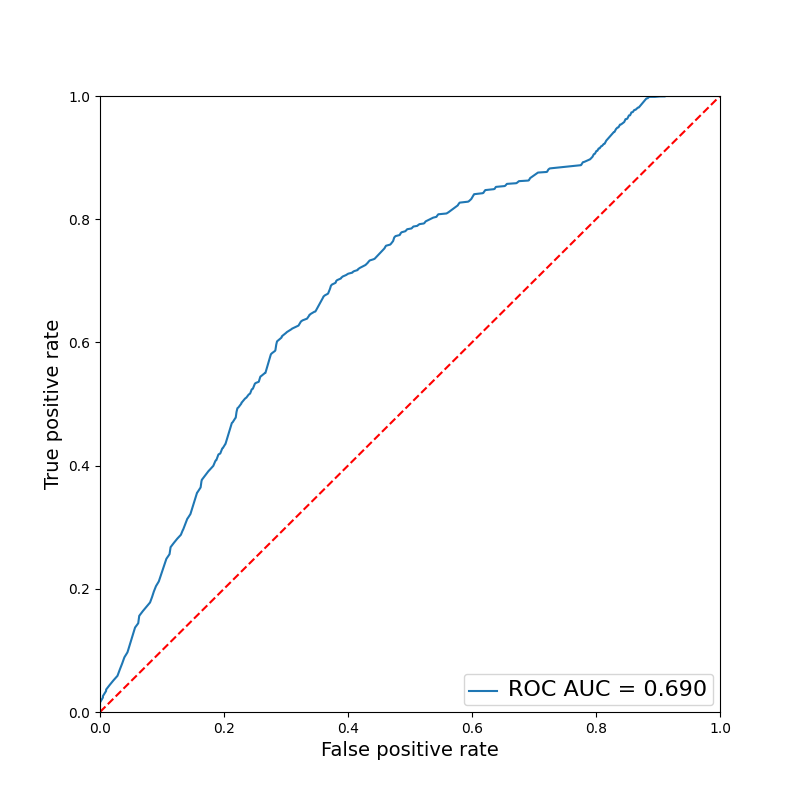
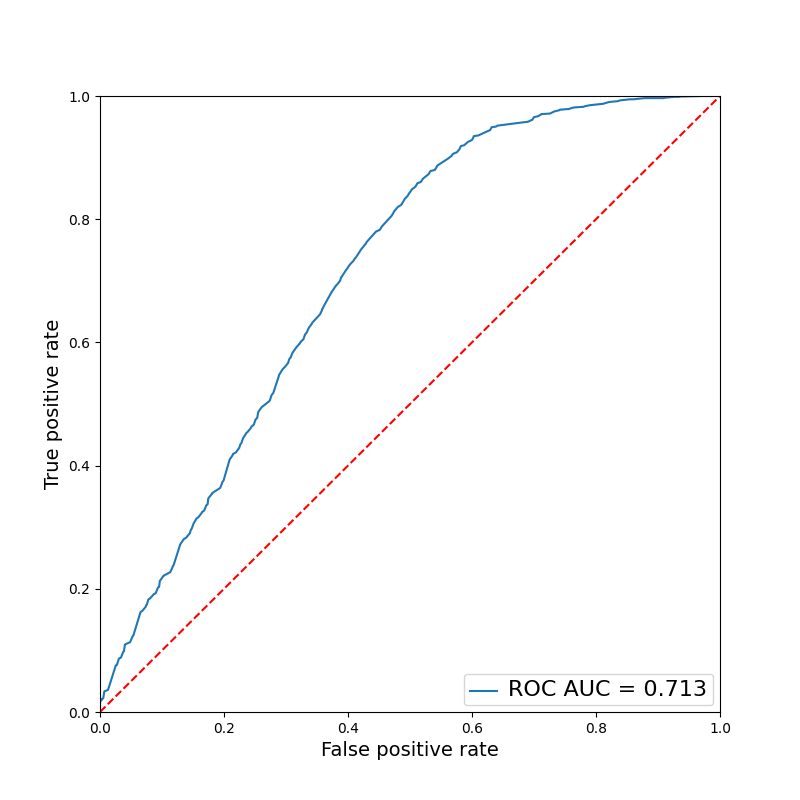
neural net ready for playing

diff --git a/Simulation.py b/Simulation.py
@@ -1,4 +1,4 @@
-import numpy as np # for advanced ds (arrays, matrices, ...)
+import numpy._globals as np # for advanced ds (arrays, matrices, ...)
 import pandas as pd # data management tools 
 import matplotlib.pyplot as plt # mathematical tool
 import seaborn as sbn # data visualisation
@@ -42,22 +42,22 @@ class Simulation:
                 # the dealers hand
                 self.dealer_hand = []
                 # each list is a player´s hand
-                self.players_hands = [[] for player in range(self.players)]
+                self.player_hands = [[] for player in range(self.players)]
                 # tracking down the players hands value
                 self.live_total = []
                 # deal the first card to player and dealer
-                for player, _ in enumerate(self.players_hands): 
-                    self.players_hands[player].append(self.cards.pop(0)) # first in last out
+                for player, _ in enumerate(self.player_hands): 
+                    self.player_hands[player].append(self.cards.pop(0)) # first in last out
                 
                 self.dealer_hand.append(self.cards.pop(0))
                 
                 # deal the second card to player and dealer
-                for player, _ in enumerate(self.players_hands): 
-                    self.players_hands[player].append(self.cards.pop(0))
+                for player, _ in enumerate(self.player_hands): 
+                    self.player_hands[player].append(self.cards.pop(0))
                 
                 self.dealer_hand.append(self.cards.pop(0))
                 # track down the players hand value
-                self.live_total.append(self.game.total_up(self.players_hands[player]))
+                self.live_total.append(self.game.total_up(self.player_hands[player]))
                 self.action = 0 # for tracking the player´s decision (1 == hit)
 
                 # dealer checks for 21
@@ -65,7 +65,7 @@ class Simulation:
                     
                     for player in range(self.players):
                         # if the player does not have a blackjack he loses
-                        if set(self.players_hands[player]) != self.blackjack: 
+                        if set(self.player_hands[player]) != self.blackjack: 
                             curr_player_results[0, player] = -1 # the corresponding players 0 is replaced by -1
                         else: # tie
                             curr_player_results[0, player] = 0 # tie
@@ -73,35 +73,35 @@ class Simulation:
                     for player in range(self.players): # for each player
                         
                         # players check for 21
-                        if set(self.players_hands[player]) == self.blackjack:
+                        if set(self.player_hands[player]) == self.blackjack:
                             curr_player_results[0, player] = 1 # win
                         
                         else:
                             # simulating both types 
                             if (self.type == "naive"): # naive simulation
-                                while ((self.game.total_up(self.players_hands[player]) <= self.limit) 
-                                    and (self.game.total_up(self.players_hands[player]) != 21)):
-                                    self.players_hands[player].append(self.cards.pop(0))
+                                while ((self.game.total_up(self.player_hands[player]) <= self.limit) 
+                                    and (self.game.total_up(self.player_hands[player]) != 21)):
+                                    self.player_hands[player].append(self.cards.pop(0))
                                     self.action = 1 # hit
                                     # check for bust again
-                                    if self.game.total_up(self.players_hands[player]) > 21:
+                                    if self.game.total_up(self.player_hands[player]) > 21:
                                         curr_player_results[0,player] = -1 # loss
                                         break # game over for this player
                             
                             elif (self.type == "random"): # random simulation
                                 while ((random.random() >= 0.5) and # 'coin flip' method  
-                                    (self.game.total_up(self.players_hands[player]) != 21)):
-                                    self.players_hands[player].append(self.cards.pop(0))
+                                    (self.game.total_up(self.player_hands[player]) != 21)):
+                                    self.player_hands[player].append(self.cards.pop(0))
                                     self.action = 1 # hit
                                     # check for bust again
-                                    if self.game.total_up(self.players_hands[player]) > 21:
+                                    if self.game.total_up(self.player_hands[player]) > 21:
                                         curr_player_results[0,player] = -1 # loss
                                         break # game over for this player
                             
                             # at this point another type of simulation has been ran as the nn need to exploit previous results
                             else: # using the neural network to play the game
                                 # look if the player has an ace
-                                if ("A" in self.players_hands[player][0:2]):
+                                if ("A" in self.player_hands[player][0:2]):
                                     self.ace = 1
                                 else:
                                     self.ace = 0
@@ -110,15 +110,15 @@ class Simulation:
                                     self.dealer_face_card = 11
                                 else:
                                     self.dealer_face_card = self.dealer_hand[0]
-
-                                while ((self.model.prediction(self.df_model, self.game.total_up(self.players_hands[player]), 
-                                        self.ace, self.dealer_face_card)) == 1 and (self.game.total_up(self.player_hands[player]) != 21)):              
+                                
+                                while ((self.model.prediction(self.game.total_up(self.player_hands[player]), self.ace, 
+                                self.dealer_face_card) == 1) and (self.game.total_up(self.player_hands[player]) != 21)):              
                                     # the nn decides to hit
                                     self.player_hands[player].append(self.cards.pop(0))
                                     self.action = 1
-                                    self.live_total.append(self.game.total_up(self.players_hands[player])) # adding live value
+                                    self.live_total.append(self.game.total_up(self.player_hands[player])) # adding live value
                                     # check for bust
-                                    if self.game.total_up(self.players_hands[player]) > 21:
+                                    if self.game.total_up(self.player_hands[player]) > 21:
                                         curr_player_results[0,player] = -1 # loss
                                         break # game over for this player
                 
@@ -135,24 +135,25 @@ class Simulation:
                 else: # nobody busted
                     for player in range(self.players): # for each player 
                         # we compare the values
-                        if (self.game.total_up(self.players_hands[player]) > self.game.total_up(self.dealer_hand)):
+                        if (self.game.total_up(self.player_hands[player]) > self.game.total_up(self.dealer_hand)):
                             # if the player hasn´t already busted
-                            if self.game.total_up(self.players_hands[player]) <= 21: 
+                            if self.game.total_up(self.player_hands[player]) <= 21: 
                                 curr_player_results[0, player] = 1 # win
                         
-                        elif self.game.total_up(self.players_hands[player]) == self.game.total_up(self.dealer_hand):
+                        elif self.game.total_up(self.player_hands[player]) == self.game.total_up(self.dealer_hand):
                             curr_player_results[0, player] = 0 # tie
                         else: 
                             curr_player_results[0, player] = -1 # loss
                 
                 # track results for each game
                 self.dealer_card_result.append(self.dealer_hand[0])
-                self.player_card_result.append(self.players_hands)
+                self.player_card_result.append(self.player_hands)
                 self.player_results.append(list(curr_player_results[0]))
                 self.total_action.append(self.action) # to know if the player hits or not 
                 self.player_live_total.append(self.live_total)
                 self.games_played += 1
-        
+                if self.type == "smart":
+                    print(self.games_played)
         print("\nTotal games played: " + str(self.games_played) + "\n")   
         # print(self.player_results)
     
@@ -330,11 +331,11 @@ class Simulation:
                     # offset = (index // 5) + 0.2 # creating an offset for the bars
                     axis.bar(x=(data.index + offsets[i]), height=data[f"{sim_type}"].values, color=color_pick, width=0.4, label=f'{sim_type}')
             
-            return axis
+            return model_data, axis
 
         # for the player hand values
         # set labels
-        self.axis = collect("player_total_sums")
+        _, self.axis = collect("player_total_sums")
 
         self.axis.set_xlabel("Player's Hand Value", fontsize=16)
         self.axis.set_ylabel("Probability of Tie or Win", fontsize=16)
@@ -342,10 +343,10 @@ class Simulation:
         plt.xticks([i for i in range(4, 21)]) # sets the steps between each bar
         plt.legend()
         plt.tight_layout()
-        plt.savefig(fname=f'{save_to}/{self.type}_player_hand_comparison', dpi=200)
+        # plt.savefig(fname=f'{save_to}/{self.type}_player_hand_comparison', dpi=200)
         
         # for the dealers first card 
-        self.axis = collect("dealer_card_val", True) # true for collecting last probability result (for 21)
+        _, self.axis = collect("dealer_card_val", True) # true for collecting last probability result (for 21)
         # set labels
         self.axis.set_xlabel("Dealers first card", fontsize=16)
         self.axis.set_ylabel("Probability of Tie or Win", fontsize=16)
@@ -353,9 +354,18 @@ class Simulation:
         plt.xticks([i for i in range(2, 12)]) # sets the steps between each bar
         plt.legend()
         plt.tight_layout()
-        plt.savefig(fname=f'{save_to}/{self.type}_dealer_card_comparison', dpi=200)
+        # plt.savefig(fname=f'{save_to}/{self.type}_dealer_card_comparison', dpi=200)
 
-    # method which exports main information about the simulations
+        # creating a df for a table with the win/loss rates fot the different sim types 
+        self.player_sum_table, _ = collect("player_total_sums")
+        self.dealer_card_table, _ = collect("dealer_card_val")
+        # print(sum(self.player_sum_table[0].values) / (self.player_sum_table[0].count() - 1))
+        # print(self.player_sum_table[0].count())  
+        # # adding up the probabilities from all simulations
+        # for sim_type in ["random", "naive", "smart"]:
+        #     for outcome in ["win", "tie", "loss"]:
+        #         pass
+    # method which exports main isnformation about the simulations
     def export_headers(self):
         with open(f"JSON/{self.type}_headers.json", "w", encoding="utf-8") as headers:
             json.dump(self.stats, headers, indent=2)
@@ -363,6 +373,7 @@ class Simulation:
     # preparing the feature variables in case of a smart approach
     # method which prepares the training data
     def train(self):
+        print("training...")
         # creating a feature list for training up
         self.not_inculded = ["dealer_card", "results", "lost", "correct_decision"]
         self.feature_list = [column for column in self.df_model.columns if column 
@@ -379,7 +390,7 @@ class Simulation:
     # method which plots a ROC curve
     def roc_eval(self, save_to="images"):
         # calculating the false positive rate / true positive rate
-        self.fpr, self.tpr, self.threshold = metrics.roc_curve(self.model.loss_results, self.model.prediction)        
+        self.fpr, self.tpr, self.threshold = metrics.roc_curve(self.model.loss_results, self.model.prediction_results)        
         self.roc_auc = metrics.auc(self.fpr, self.tpr) # creating the curves
         # creating the plot
         _, self.axis = plt.subplots(figsize=(8, 8))
@@ -398,8 +409,8 @@ class Simulation:
         plt.setp(self.axis.get_legend().get_texts(), fontsize=16)
 
         # saving
-        plt.savefig(fname=f"{save_to}/roc_curve")
-        # plt.show()
+        # plt.savefig(fname=f"{save_to}/roc_curve")
+        plt.show()
 
      # method which evaluates the results of the simulated games
     def evaluate(self):
@@ -421,4 +432,5 @@ class Simulation:
             "loses": [self.loses, str((round(self.loses / self.games_played * 100, 2))) + " %"],
             "ties": [self.ties, str((round(self.ties / self.games_played * 100, 2))) + " %"],
         }
-        # print(self.stats)
+
+        # print(self.stats) 

diff --git a/main.py b/main.py
@@ -2,6 +2,8 @@
 from Game import *
 from Simulation import *
 from Model import *
+import numpy
+import pandas as pd
 import time as t
 
 # main func
@@ -9,29 +11,36 @@ def main(stacks):
     start = t.time()
     models = []
     # creating a naive simulation
-    naive_simulation = Simulation(stacks, "naive", 11)
-    # creating a random simulation
     random_simulation = Simulation(stacks, "random")
+    # creating a random simulation
+    # random_simulation = Simulation(stacks, "random")
     # simulating
-    naive_simulation.play()
     random_simulation.play()
+    # random_simulation.play()
     # outcome statistics
-    naive_simulation.evaluate()
+    # random_simulation.evaluate()
     random_simulation.evaluate()
     # modelizing data frames
-    naive_simulation.modelisation()
     random_simulation.modelisation()
-    models.append([naive_simulation.df_model, f"{naive_simulation.type}"])
+    # random_simulation.modelisation()
     models.append([random_simulation.df_model, f"{random_simulation.type}"])
+    # random_simulation.model_comparison(models)
     
+    # training model    
+    random_simulation.train()
+    random_simulation.roc_eval()
+    # # letting play the nn
+    # print("Changing type...")
+    random_simulation.type = "smart"
+    smart_simulation = random_simulation
+    smart_simulation.play()
+    smart_simulation.evaluate()
+    smart_simulation.modelisation()
+    smart_simulation.export_headers()
+    # models.append([smart_simulation.df_model, f"{smart_simulation.type}"])
     # outcome statistics
-    naive_simulation.evaluate()
-    random_simulation.evaluate()
-    # comparing
-    # naive_simulation.model_comparison(models, "mocks")
-    # print("training...")
-    naive_simulation.train()
-    naive_simulation.roc_eval()
+    # naive_simulation.evaluate()
+    # random_simulation.evaluate()
 
     end = t.time()
     print("Time elapsed: " + str(round(end - start, 2)) + " seconds")

diff --git a/Model.py b/Model.py
@@ -14,11 +14,11 @@ class Model:
         self.activation = "sigmoid" # this function converts raw output to readable ouput
         self.loss = "binary_crossentropy" # good for outputting probabilities
         self.optimizer = "sgd"
-        self.epochs = 20
+        self.epochs = 150
         self.batch_size = 256
         self.verbose = 1
 
-    def setup(self, train_x, train_y):
+    def setup(self, train_x, train_y): 
         # adding the 5 neural layers
         for layer in self.layers: # not the last one
             self.model.add(Dense(layer))
@@ -27,15 +27,15 @@ class Model:
         # compiling with a probability adapted method/optimization
         self.model.compile(loss=self.loss, optimizer=self.optimizer)
         self.model.fit(train_x, train_y, epochs=self.epochs, batch_size=self.batch_size, verbose=self.verbose)
-        self.prediction = self.model.predict(train_x)
+        self.prediction_results = self.model.predict(train_x)
         self.loss_results = train_y[:, -1]
         # print(self.loss_results)
     
     # method which lets the nn make a prediction and then decides to either hit or stay
-    def prediction(self, df_model, player_sum, has_ace, dealer_card_val, coeff=0.52):
+    def prediction(self, player_sum, has_ace, dealer_card_val, coeff=0.52):
         # making the prediction
         self.input_array = np.array([player_sum, 0, has_ace, dealer_card_val]).reshape(1, -1)
-        self.correct_predict = df_model.predict(self.input_array)
+        self.correct_predict = self.model.predict(self.input_array)
         # deciding to hit or not
         if (self.correct_predict >= coeff): # more likely to stay to avoid bust (>= 0.5)
             return 1
